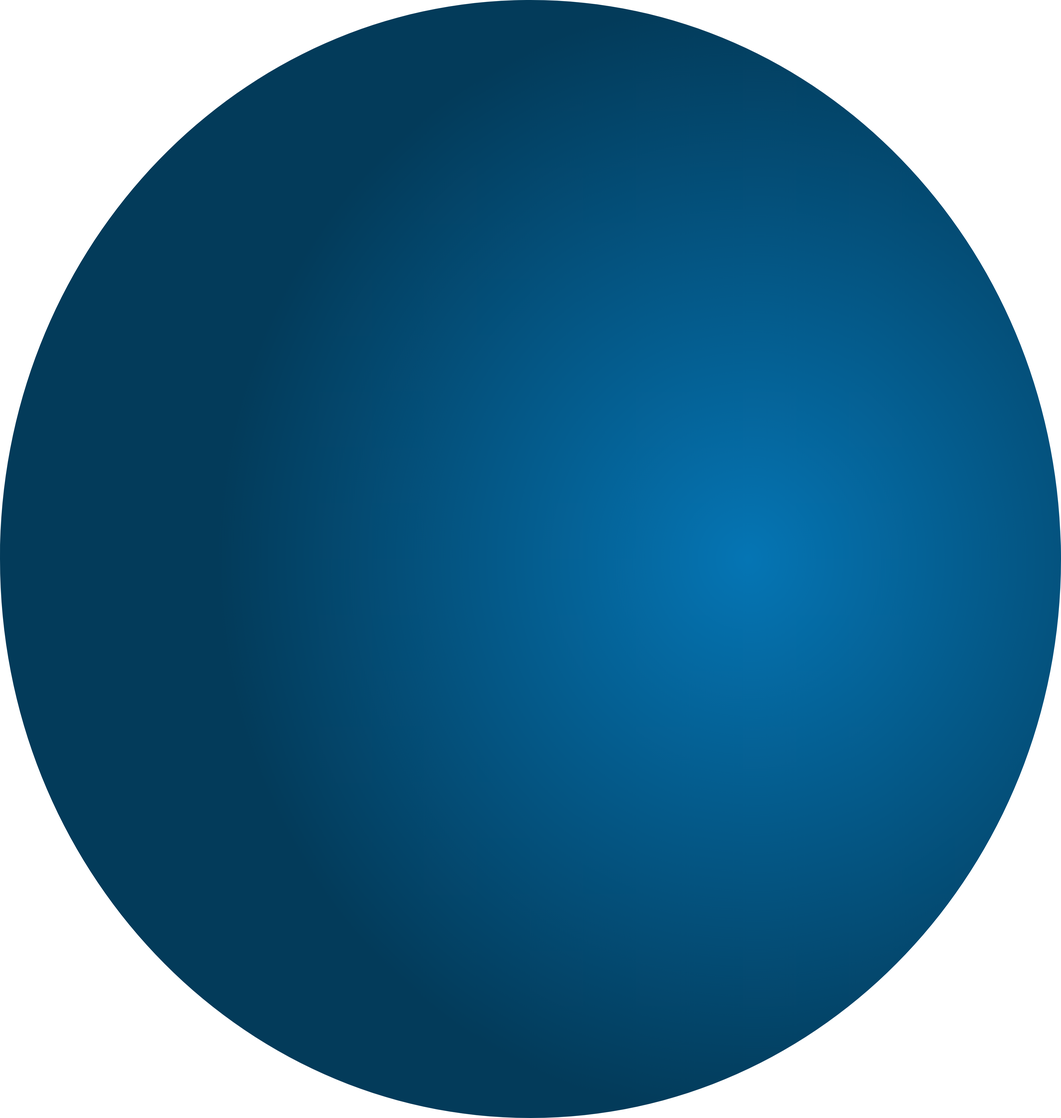
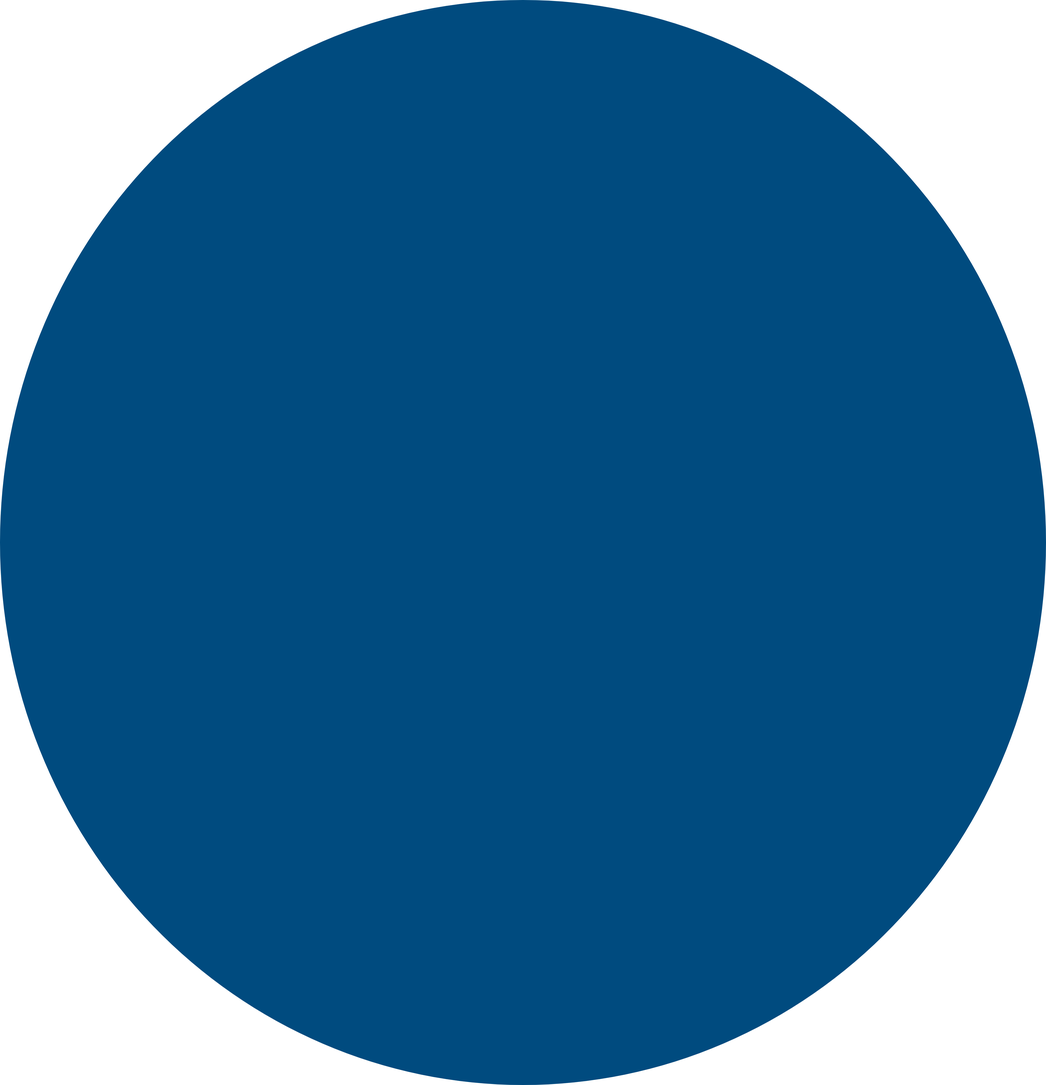
background color chnaged

diff --git a/index.html b/index.html
@@ -101,62 +101,96 @@
         <g id="Group-32" transform="translate(0.000000, 3.000000)">
           <path
             d="M126.007899,38.7650154 C126.007899,34.7383476 129.263975,31.4816286 133.298472,31.4816286 L386.871877,31.4816286 C390.898902,31.4816286 394.162451,34.7405 394.162451,38.7650154 L394.162451,212.307477 C394.162451,216.334145 390.906375,219.590864 386.871877,219.590864 L133.298472,219.590864 C129.271447,219.590864 126.007899,216.331993 126.007899,212.307477 L126.007899,38.7650154 Z"
-            id="Case" stroke="#0575B4" stroke-width="2.08142999" fill="#002147" class="zrpfIRpo_0"></path>
+            id="Case" stroke="#4d89c8
+
+" stroke-width="2.08142999" fill="#005C97" class="zrpfIRpo_0"></path>
           <path
             d="M142.409667,50.7365341 C142.409667,49.0123794 143.813338,47.612711 145.535934,47.612711 L374.37407,47.612711 C376.102828,47.612711 377.500337,49.004393 377.500337,50.7365341 L377.500337,180.042016 C377.500337,181.766171 376.096666,183.165839 374.37407,183.165839 L145.535934,183.165839 C143.807176,183.165839 142.409667,181.774157 142.409667,180.042016 L142.409667,50.7365341 Z"
-            id="Case" stroke="#0575B4" stroke-width="2.08142999" fill="#002147" class="zrpfIRpo_1"></path>
-          <path d="M240.989547,219.590864 L279.441148,219.590864 L282.037136,253.153923 L238.39356,253.153923 L240.989547,219.590864 Z" id="Case" stroke="#0575B4" stroke-width="2.08142999" fill="#002147"
-            class="zrpfIRpo_2">
+            id="Case" stroke="#4d89c8
+
+" stroke-width="2.08142999" fill="#005C97" class="zrpfIRpo_1"></path>
+          <path d="M240.989547,219.590864 L279.441148,219.590864 L282.037136,253.153923 L238.39356,253.153923 L240.989547,219.590864 Z" id="Case" stroke="#4d89c8
+
+" stroke-width="2.08142999" fill="#005C97" class="zrpfIRpo_2">
           </path>
           <path
             d="M222.334407,253.411496 L222.334407,256.926514 C222.334407,259.006825 224.024461,260.699106 226.104395,260.699106 L294.3263,260.699106 C296.402444,260.699106 298.096288,259.006629 298.096288,256.926514 L298.096288,253.411496 C298.096288,253.265769 297.983625,253.153923 297.834738,253.153923 L222.595957,253.153923 C222.450148,253.153923 222.334407,253.269384 222.334407,253.411496 Z"
-            id="Keyboard" stroke="#0575B4" stroke-width="2.08142999" fill="#002147" transform="translate(260.215348, 256.926514) scale(1, -1) translate(-260.215348, -256.926514) " class="zrpfIRpo_3"></path>
+            id="Keyboard" stroke="#4d89c8
+
+" stroke-width="2.08142999" fill="#005C97" transform="translate(260.215348, 256.926514) scale(1, -1) translate(-260.215348, -256.926514) " class="zrpfIRpo_3"></path>
           <path id="Oval-6" stroke="#861485" stroke-width="2.08142999" d="M255.39895587,202.809335A4.81639213,4.81330685 0,1,1 265.03174013,202.809335A4.81639213,4.81330685 0,1,1 255.39895587,202.809335"
             class="zrpfIRpo_4"></path>
-          <path id="Case" stroke="#0575B4" stroke-width="2.08142999" fill="#002147" width="51.5470788" height="100.949355"
+          <path id="Case" stroke="#4d89c8
+
+" stroke-width="2.08142999" fill="#005C97" width="51.5470788" height="100.949355"
             d="M 107.275074,159.749752 L 146.8221528,159.749752 A 6,6,0,0,1,152.8221528,165.749752 L 152.8221528,254.69910700000003 A 6,6,0,0,1,146.8221528,260.699107 L 107.275074,260.699107 A 6,6,0,0,1,101.275074,254.69910700000003 L 101.275074,165.749752 A 6,6,0,0,1,107.275074,159.749752"
             class="zrpfIRpo_5"></path>
-          <path d="M101.275074,170.937438 L152.822153,170.937438 L152.822153,245.686792 L101.275074,245.686792 L101.275074,170.937438 Z" id="Case" stroke="#0575B4" stroke-width="2.08142999" fill="#002147"
-            class="zrpfIRpo_6">
+          <path d="M101.275074,170.937438 L152.822153,170.937438 L152.822153,245.686792 L101.275074,245.686792 L101.275074,170.937438 Z" id="Case" stroke="#4d89c8
+
+" stroke-width="2.08142999" fill="#005C97" class="zrpfIRpo_6">
           </path>
-          <path id="Rectangle-11" fill="#0575B4" width="24.7328244" height="2.08142999"
+          <path id="Rectangle-11" fill="#4d89c8
+
+" width="24.7328244" height="2.08142999"
             d="M 115.812374,164.17279 L 138.5451984,164.17279 A 1,1,0,0,1,139.5451984,165.17279 L 139.5451984,165.25421999 A 1,1,0,0,1,138.5451984,166.25421999 L 115.812374,166.25421999 A 1,1,0,0,1,114.812374,165.25421999 L 114.812374,165.17279 A 1,1,0,0,1,115.812374,164.17279"
             class="zrpfIRpo_7"></path>
-          <path id="Rectangle-11" fill="#0575B4" width="5.93587786" height="5.93207547"
+          <path id="Rectangle-11" fill="#4d89c8
+
+" width="5.93587786" height="5.93207547"
             d="M 126.184813,250.031778 L 128.12069086,250.031778 A 2,2,0,0,1,130.12069086,252.031778 L 130.12069086,253.96385347 A 2,2,0,0,1,128.12069086,255.96385347 L 126.184813,255.96385347 A 2,2,0,0,1,124.184813,253.96385347 L 124.184813,252.031778 A 2,2,0,0,1,126.184813,250.031778"
             class="zrpfIRpo_8"></path>
-          <path id="Oval-6" stroke="#0575B4" stroke-width="2.08142999" fill="#002147" d="M111.9485742,208.142999A3.9051828,3.90268123 0,1,1 119.75893980000001,208.142999A3.9051828,3.90268123 0,1,1 111.9485742,208.142999"
-            class="zrpfIRpo_9"></path>
-          <path id="Rectangle-11" fill="#0575B4" width="18.2241864" height="2.08142999"
+          <path id="Oval-6" stroke="#4d89c8
+
+" stroke-width="2.08142999" fill="#005C97" d="M111.9485742,208.142999A3.9051828,3.90268123 0,1,1 119.75893980000001,208.142999A3.9051828,3.90268123 0,1,1 111.9485742,208.142999" class="zrpfIRpo_9"></path>
+          <path id="Rectangle-11" fill="#4d89c8
+
+" width="18.2241864" height="2.08142999"
             d="M 125.96585,201.378352 L 142.1900364,201.378352 A 1,1,0,0,1,143.1900364,202.378352 L 143.1900364,202.45978199 A 1,1,0,0,1,142.1900364,203.45978199 L 125.96585,203.45978199 A 1,1,0,0,1,124.96585,202.45978199 L 124.96585,202.378352 A 1,1,0,0,1,125.96585,201.378352"
             class="zrpfIRpo_10"></path>
-          <path id="Rectangle-11" fill="#0575B4" width="13.017276" height="2.08142999"
+          <path id="Rectangle-11" fill="#4d89c8
+
+" width="13.017276" height="2.08142999"
             d="M 125.96585,207.102284 L 136.983126,207.102284 A 1,1,0,0,1,137.983126,208.102284 L 137.983126,208.18371399 A 1,1,0,0,1,136.983126,209.18371399 L 125.96585,209.18371399 A 1,1,0,0,1,124.96585,208.18371399 L 124.96585,208.102284 A 1,1,0,0,1,125.96585,207.102284"
             class="zrpfIRpo_11"></path>
-          <path id="Rectangle-11" fill="#0575B4" width="7.81036561" height="2.08142999"
+          <path id="Rectangle-11" fill="#4d89c8
+
+" width="7.81036561" height="2.08142999"
             d="M 125.96585,212.826216 L 131.77621561,212.826216 A 1,1,0,0,1,132.77621561,213.826216 L 132.77621561,213.90764599 A 1,1,0,0,1,131.77621561,214.90764599 L 125.96585,214.90764599 A 1,1,0,0,1,124.96585,213.90764599 L 124.96585,213.826216 A 1,1,0,0,1,125.96585,212.826216"
             class="zrpfIRpo_12"></path>
-          <path id="Oval-7" stroke="#0575B4" stroke-width="2.08142999" fill="#002147" d="M34.8856326,168.725919A39.9637045,39.9374379 0,1,1 114.81304159999999,168.725919A39.9637045,39.9374379 0,1,1 34.8856326,168.725919"
-            class="zrpfIRpo_13"></path>
-          <path id="Case" stroke="#0575B4" stroke-width="2.08142999" fill="#002147" width="192.654351" height="129.308838"
+          <path id="Oval-7" stroke="#4d89c8
+
+" stroke-width="2.08142999" fill="#005C97" d="M34.8856326,168.725919A39.9637045,39.9374379 0,1,1 114.81304159999999,168.725919A39.9637045,39.9374379 0,1,1 34.8856326,168.725919" class="zrpfIRpo_13"></path>
+          <path id="Case" stroke="#4d89c8
+
+" stroke-width="2.08142999" fill="#005C97" width="192.654351" height="129.308838"
             d="M 325.704966,120.462761 L 506.35931700000003,120.462761 A 6,6,0,0,1,512.359317,126.462761 L 512.359317,243.771599 A 6,6,0,0,1,506.35931700000003,249.771599 L 325.704966,249.771599 A 6,6,0,0,1,319.704966,243.771599 L 319.704966,126.462761 A 6,6,0,0,1,325.704966,120.462761"
             class="zrpfIRpo_14"></path>
           <path
             d="M306.42601,250.02579 L306.42601,255.235353 C306.42601,258.248347 308.874337,260.699106 311.88835,260.699106 L520.175933,260.699106 C523.187441,260.699106 525.638273,258.249893 525.638273,255.235353 L525.638273,250.02579 C525.638273,249.884133 525.525092,249.771599 525.379413,249.771599 L306.68487,249.771599 C306.538643,249.771599 306.42601,249.8841 306.42601,250.02579 Z"
-            id="Keyboard" stroke="#0575B4" stroke-width="2.08142999" fill="#002147" class="zrpfIRpo_15"></path>
+            id="Keyboard" stroke="#4d89c8
+
+" stroke-width="2.08142999" fill="#005C97" class="zrpfIRpo_15"></path>
           <path
             d="M430.428848,249.888735 L401.270407,249.88823 C402.433781,252.961493 405.402425,255.091813 408.808279,255.091813 L422.891133,255.091813 C426.2974,255.091813 429.265465,252.961765 430.428848,249.888735 Z"
-            id="Notch" stroke="#0575B4" stroke-width="2.08142999" fill="#002147" class="zrpfIRpo_16"></path>
-          <path id="Screen" stroke="#0575B4" stroke-width="2.08142999" fill="#002147" width="175.319716" height="105.073079"
+            id="Notch" stroke="#4d89c8
+
+" stroke-width="2.08142999" fill="#005C97" class="zrpfIRpo_16"></path>
+          <path id="Screen" stroke="#4d89c8
+
+" stroke-width="2.08142999" fill="#005C97" width="175.319716" height="105.073079"
             d="M 330.295034,132.691162 L 501.61474999999996,132.691162 A 2,2,0,0,1,503.61474999999996,134.691162 L 503.61474999999996,235.764241 A 2,2,0,0,1,501.61474999999996,237.764241 L 330.295034,237.764241 A 2,2,0,0,1,328.295034,235.764241 L 328.295034,134.691162 A 2,2,0,0,1,330.295034,132.691162"
             class="zrpfIRpo_17"></path>
           <path id="Oval-3" fill="#293347" d="M253.0558454,49.9543198A1.3017276,1.30089374 0,1,1 255.6593006,49.9543198A1.3017276,1.30089374 0,1,1 253.0558454,49.9543198" class="zrpfIRpo_18"></path>
           <path
             d="M179.899422,11.9682224 L300.177718,11.9682224 L300.177718,127.227794 C300.177718,131.24909 296.908511,134.512413 292.886465,134.512413 L187.190674,134.512413 C183.165634,134.512413 179.899422,131.247907 179.899422,127.227794 L179.899422,11.9682224 Z"
-            id="Case" stroke="#0575B4" stroke-width="2.08142999" fill="#002147" class="zrpfIRpo_19"></path>
+            id="Case" stroke="#4d89c8
+
+" stroke-width="2.08142999" fill="#005C97" class="zrpfIRpo_19"></path>
           <path
             d="M179.899422,6.23775036 C179.899422,2.21962044 183.168858,-1.040715 187.190674,-1.040715 L292.886465,-1.040715 C296.913475,-1.040715 300.177718,2.21613142 300.177718,6.23775036 L300.177718,14.0496524 L179.899422,14.0496524 L179.899422,6.23775036 Z"
-            id="Case" stroke="#0575B4" stroke-width="2.08142999" fill="#002147" class="zrpfIRpo_20"></path>
+            id="Case" stroke="#4d89c8
+
+" stroke-width="2.08142999" fill="#005C97" class="zrpfIRpo_20"></path>
           <path id="Oval-5" fill="#f71010" d="M188.75050232,6.50446872A2.34310968,2.34160874 0,1,1 193.43672168,6.50446872A2.34310968,2.34160874 0,1,1 188.75050232,6.50446872" class="zrpfIRpo_21"></path>
           <path id="Oval-5" fill="#dee3e2" d="M196.56086832,6.50446872A2.34310968,2.34160874 0,1,1 201.24708768,6.50446872A2.34310968,2.34160874 0,1,1 196.56086832,6.50446872" class="zrpfIRpo_22"></path>
           <path id="Oval-5" fill="#33f710" d="M204.37123332000002,6.50446872A2.34310968,2.34160874 0,1,1 209.05745268,6.50446872A2.34310968,2.34160874 0,1,1 204.37123332000002,6.50446872" class="zrpfIRpo_23"></path>
@@ -243,28 +277,32 @@
             class="zrpfIRpo_50"></path>
           <path
             d="M414.991426,93.6643496 L557.659437,93.6643496 L557.659437,195.142937 C557.659437,199.162932 554.399545,202.419067 550.373649,202.419067 L422.277215,202.419067 C418.255898,202.419067 414.991426,199.157214 414.991426,195.142937 L414.991426,93.6643496 Z"
-            id="Case" stroke="#0575B4" stroke-width="2.08142999" fill="#002147" class="zrpfIRpo_51"></path>
+            id="Case" stroke="#4d89c8
+
+" stroke-width="2.08142999" fill="#005C97" class="zrpfIRpo_51"></path>
           <path
             d="M414.991426,87.9338775 C414.991426,83.9126798 418.251232,80.6554121 422.277215,80.6554121 L550.373649,80.6554121 C554.397843,80.6554121 557.659437,83.9124627 557.659437,87.9338775 L557.659437,95.7457795 L414.991426,95.7457795 L414.991426,87.9338775 Z"
-            id="Case" stroke="#0575B4" stroke-width="2.08142999" fill="#002147" class="zrpfIRpo_52"></path>
+            id="Case" stroke="#4d89c8
+
+" stroke-width="2.08142999" fill="#005C97" class="zrpfIRpo_52"></path>
           <path id="Oval-5" fill="#f71010" d="M423.84250732,88.2005958A2.34310968,2.34160874 0,1,1 428.52872668,88.2005958A2.34310968,2.34160874 0,1,1 423.84250732,88.2005958" class="zrpfIRpo_53"></path>
           <path id="Oval-5" fill="#dee3e2" d="M431.65287232000003,88.2005958A2.34310968,2.34160874 0,1,1 436.33909168,88.2005958A2.34310968,2.34160874 0,1,1 431.65287232000003,88.2005958" class="zrpfIRpo_54"></path>
           <path id="Oval-5" fill="#33f710" d="M439.46323832,88.2005958A2.34310968,2.34160874 0,1,1 444.14945768,88.2005958A2.34310968,2.34160874 0,1,1 439.46323832,88.2005958" class="zrpfIRpo_55"></path>
-          <path id="Oval-6" stroke="#d1cebd" stroke-width="2.34160874" fill="#002147"
+          <path id="Oval-6" stroke="#d1cebd" stroke-width="2.34160874" fill="#005C97"
             d="M477.21333899999996,148.041708A26.034552,26.0178749 0,1,1 529.282443,148.041708A26.034552,26.0178749 0,1,1 477.21333899999996,148.041708" class="zrpfIRpo_56"></path>
-          <path d="M500.383423,118.901688 L500.383423,125.145978 L506.63305,125.145978 L506.63305,118.901688 L500.383423,118.901688 Z" id="Rectangle-12" stroke="#ffb0cd" stroke-width="2.08142999" fill="#002147"
+          <path d="M500.383423,118.901688 L500.383423,125.145978 L506.63305,125.145978 L506.63305,118.901688 L500.383423,118.901688 Z" id="Rectangle-12" stroke="#ffb0cd" stroke-width="2.08142999" fill="#005C97"
             class="zrpfIRpo_57"></path>
-          <path d="M500.123077,170.937438 L500.123077,177.181728 L506.372704,177.181728 L506.372704,170.937438 L500.123077,170.937438 Z" id="Rectangle-12" stroke="#ffb0cd" stroke-width="2.08142999" fill="#002147"
+          <path d="M500.123077,170.937438 L500.123077,177.181728 L506.372704,177.181728 L506.372704,170.937438 L500.123077,170.937438 Z" id="Rectangle-12" stroke="#ffb0cd" stroke-width="2.08142999" fill="#005C97"
             class="zrpfIRpo_58"></path>
-          <path d="M474.088525,145.179742 L474.088525,151.424032 L480.338152,151.424032 L480.338152,145.179742 L474.088525,145.179742 Z" id="Rectangle-12" stroke="#084177" stroke-width="2.08142999" fill="#002147"
+          <path d="M474.088525,145.179742 L474.088525,151.424032 L480.338152,151.424032 L480.338152,145.179742 L474.088525,145.179742 Z" id="Rectangle-12" stroke="#084177" stroke-width="2.08142999" fill="#005C97"
             class="zrpfIRpo_59"></path>
-          <path d="M525.897284,145.179742 L525.897284,151.424032 L532.146911,151.424032 L532.146911,145.179742 L525.897284,145.179742 Z" id="Rectangle-12" stroke="#084177" stroke-width="2.08142999" fill="#002147"
+          <path d="M525.897284,145.179742 L525.897284,151.424032 L532.146911,151.424032 L532.146911,145.179742 L525.897284,145.179742 Z" id="Rectangle-12" stroke="#084177" stroke-width="2.08142999" fill="#005C97"
             class="zrpfIRpo_60"></path>
           <path id="Line" stroke="#084177" stroke-width="2.08142999" stroke-linecap="square" d="M529.282443,124.625621L529.282443,144.139027" class="zrpfIRpo_61"></path>
           <path id="Line" stroke="#084177" stroke-width="2.08142999" stroke-linecap="square" d="M529.282443,151.944389L529.282443,171.457795" class="zrpfIRpo_62"></path>
           <path id="Oval-5" fill="#ff1e56" d="M526.15829676,123.845084A3.12414624,3.12214499 0,1,1 532.4065892399999,123.845084A3.12414624,3.12214499 0,1,1 526.15829676,123.845084" class="zrpfIRpo_63"></path>
           <path id="Oval-5" fill="#ff1e56" d="M526.15829676,173.279047A3.12414624,3.12214499 0,1,1 532.4065892399999,173.279047A3.12414624,3.12214499 0,1,1 526.15829676,173.279047" class="zrpfIRpo_64"></path>
-          <g id="Group-60" transform="translate(439.463238, 115.519364)" fill="#002147" stroke-width="2.08142999">
+          <g id="Group-60" transform="translate(439.463238, 115.519364)" fill="#005C97" stroke-width="2.08142999">
             <path id="Rectangle-15" width="16.1427564" stroke="#dee3e2" height="16.1310824"
               d="M 4.0407150000000005,1.040715 L 14.183471399999998,1.040715 A 3,3,0,0,1,17.1834714,4.0407150000000005 L 17.1834714,14.171797399999999 A 3,3,0,0,1,14.183471399999998,17.1717974 L 4.0407150000000005,17.1717974 A 3,3,0,0,1,1.040715,14.171797399999999 L 1.040715,4.0407150000000005 A 3,3,0,0,1,4.0407150000000005,1.040715"
               class="zrpfIRpo_65"></path>
@@ -275,22 +313,22 @@
               d="M 4.0407150000000005,47.8728898 L 14.183471399999998,47.8728898 A 3,3,0,0,1,17.1834714,50.8728898 L 17.1834714,61.00397220000001 A 3,3,0,0,1,14.183471399999998,64.0039722 L 4.0407150000000005,64.0039722 A 3,3,0,0,1,1.040715,61.00397220000001 L 1.040715,50.8728898 A 3,3,0,0,1,4.0407150000000005,47.8728898"
               class="zrpfIRpo_67"></path>
           </g>
-          <path id="Oval-8" stroke="#ff7272" stroke-width="2.08142999" fill="#002147" d="M616.7585378,235.982125A15.6207312,15.6107249 0,1,1 648.0000002,235.982125A15.6207312,15.6107249 0,1,1 616.7585378,235.982125"
+          <path id="Oval-8" stroke="#ff7272" stroke-width="2.08142999" fill="#005C97" d="M616.7585378,235.982125A15.6207312,15.6107249 0,1,1 648.0000002,235.982125A15.6207312,15.6107249 0,1,1 616.7585378,235.982125"
             class="zrpfIRpo_68"></path>
-          <path id="Oval-8" stroke="#ff7272" stroke-width="2.08142999" fill="#002147" d="M623.26717579,235.982125A9.11209321,9.10625621 0,1,1 641.49136221,235.982125A9.11209321,9.10625621 0,1,1 623.26717579,235.982125"
+          <path id="Oval-8" stroke="#ff7272" stroke-width="2.08142999" fill="#005C97" d="M623.26717579,235.982125A9.11209321,9.10625621 0,1,1 641.49136221,235.982125A9.11209321,9.10625621 0,1,1 623.26717579,235.982125"
             class="zrpfIRpo_69"></path>
-          <path id="Oval-8" stroke="#d1cebd" stroke-width="2.08142999" fill="#002147"
+          <path id="Oval-8" stroke="#d1cebd" stroke-width="2.08142999" fill="#005C97"
             d="M606.3447165900001,212.305859A5.20691041,5.20357498 0,1,1 616.75853741,212.305859A5.20691041,5.20357498 0,1,1 606.3447165900001,212.305859" class="zrpfIRpo_70"></path>
           <path
             d="M588.639887,211.004965 C588.065116,211.004965 587.599172,211.470909 587.599172,212.04568 L587.599172,255.75571 C587.599172,258.629565 589.928892,260.959285 592.802747,260.959285 L628.720118,260.959285 C631.593973,260.959285 633.923693,258.629565 633.923693,255.75571 L633.923693,212.04568 C633.923693,211.470909 633.457749,211.004965 632.882978,211.004965 L588.639887,211.004965 Z"
-            id="Rectangle-16" stroke="#ff7272" stroke-width="2.08142999" fill="#002147" class="zrpfIRpo_71"></path>
-          <path id="Rectangle-16" stroke="#d1cebd" stroke-width="2.08142999" fill="#002147" width="13.5393012" height="16.6514399"
+            id="Rectangle-16" stroke="#ff7272" stroke-width="2.08142999" fill="#005C97" class="zrpfIRpo_71"></path>
+          <path id="Rectangle-16" stroke="#d1cebd" stroke-width="2.08142999" fill="#005C97" width="13.5393012" height="16.6514399"
             d="M 612.728541,225.054618 L 620.2678421999999,225.054618 A 3,3,0,0,1,623.2678421999999,228.054618 L 623.2678421999999,238.70605790000002 A 3,3,0,0,1,620.2678421999999,241.70605790000002 L 612.728541,241.70605790000002 A 3,3,0,0,1,609.728541,238.70605790000002 L 609.728541,228.054618 A 3,3,0,0,1,612.728541,225.054618"
             class="zrpfIRpo_72"></path>
           <path id="Line-2" stroke="#d1cebd" stroke-width="2.08142999" stroke-linecap="square" d="M616.368019,211.395233L616.368019,223.233366" class="zrpfIRpo_73"></path>
           <path
             d="M16.391389,229.997886 C7.91344584,229.997886 1.040715,236.870617 1.040715,245.34856 C1.040715,253.826503 7.91344584,260.699234 16.391389,260.699234 L79.4070531,260.699234 C80.2692097,260.699234 80.9681256,260.000318 80.9681256,259.138161 L80.9681256,256.722169 C80.9681256,255.629844 80.123732,254.723351 79.0341503,254.645969 C71.8803755,254.137863 68.0805122,250.995245 68.0805122,245.34856 C68.0805122,239.701873 71.8803788,236.559254 79.0341596,236.05115 C80.1237345,235.973762 80.9681256,235.06727 80.9681256,233.974951 L80.9681256,231.558958 C80.9681256,230.696802 80.2692097,229.997886 79.4070531,229.997886 L16.391389,229.997886 Z"
-            id="Rectangle-17" stroke="#f8dc88" stroke-width="2.08142999" fill="#002147" class="zrpfIRpo_76"></path>
+            id="Rectangle-17" stroke="#f8dc88" stroke-width="2.08142999" fill="#005C97" class="zrpfIRpo_76"></path>
           <path
             d="M80.1864202,255.299762 C80.1864202,255.551575 79.9821545,255.75571 79.73018,255.75571 L79.73018,255.75571 L72.353427,255.75571 L16.1414223,255.75571 C10.3900278,255.75571 5.72760145,251.09627 5.72760145,245.34856 C5.72760145,239.60085 10.3900278,234.94141 16.1414223,234.94141 L72.353427,234.94141 L79.73018,234.94141 L79.73018,234.94141 C79.9821545,234.94141 80.1864202,235.145545 80.1864202,235.397358"
             id="Rectangle-19" stroke="#f8dc88" stroke-width="2.08142999" class="zrpfIRpo_77"></path>

diff --git a/css/style.css b/css/style.css
@@ -4,14 +4,14 @@
 * {
   font-family: 'Genos';
   height: auto;
-  background: #002147;
+  background: #005c97;
   color: #ccd3da;
   scroll-behavior: smooth;
   box-sizing: border-box;
 }
 
 body {
-  background: #002147 !important;
+  background: #005c97 !important;
   overflow-x: hidden;
 }
 
@@ -128,7 +128,7 @@ h4 {
 }
 
 #chat-bot-message-container .chat-bot-message-label {
-  background: #002147 !important;
+  background: #005c97 !important;
   padding: 10px !important;
 }
 
@@ -150,7 +150,7 @@ h4 {
 nav {
   height: auto;
   width: 100%;
-  background: #002147;
+  background: #005c97;
   display: -webkit-box;
   display: -ms-flexbox;
   display: flex !important;
@@ -233,7 +233,7 @@ p::first-letter,
 .sitemap .nav-item a,
 a.nav-link,
 footer span {
-  background-image: linear-gradient(90deg, #d32cca, blue);
+  background-image: linear-gradient(90deg, #964b92, #964b92);
   background-size: 0% 1px;
   background-repeat: no-repeat;
   background-position: left bottom;
@@ -672,7 +672,7 @@ pre code {
 #item1.card,
 #item2.card {
   padding-left: 0.5rem;
-  background: #002147;
+  background: #005c97;
   text-align: start;
   box-shadow: 0.5px 0.5px orange;
   line-height: 2rem;
@@ -696,7 +696,7 @@ footer h3 {
 .footer-section {
   width: 100%;
   height: auto;
-  background: #002147;
+  background: #005c97;
   overflow-x: hidden;
 }
 
@@ -747,7 +747,7 @@ input#email {
 }
 
 form input.form-control {
-  color: #002147 !important;
+  color: #005c97 !important;
   border-radius: 10px;
 }
 

diff --git a/css/project.css b/css/project.css
@@ -1,11 +1,11 @@
 * {
   -webkit-box-sizing: border-box;
           box-sizing: border-box;
-  background-color: #002147;
+  background-color: #005c97;
 }
 
 body {
-  background: #002147;
+  background: #005c97;
   overflow-x: hidden;
 }
 
@@ -43,8 +43,8 @@ iframe {
 
 .grid-project .card-title h2,
 .grid-project .card-title p {
-  background-image: -webkit-gradient(linear, left top, right top, from(#d32cca), to(blue));
-  background-image: linear-gradient(90deg, #d32cca, blue);
+  background-image: -webkit-gradient(linear, left top, right top, from(#964b92), to(#964b92));
+  background-image: linear-gradient(90deg, #964b92, #964b92);
   background-size: 0% 2px;
   background-repeat: no-repeat;
   background-position: left bottom;
@@ -133,8 +133,8 @@ iframe {
   line-height: 2;
   font-weight: 700;
   text-align: right;
-  background-image: -webkit-gradient(linear, left top, right top, from(#d32cca), to(blue));
-  background-image: linear-gradient(90deg, #d32cca, blue);
+  background-image: -webkit-gradient(linear, left top, right top, from(#964b92), to(#964b92));
+  background-image: linear-gradient(90deg, #964b92, #964b92);
   background-size: 0% 2px;
   background-repeat: no-repeat;
   background-position: right bottom;

diff --git a/project.html b/project.html
@@ -240,7 +240,7 @@
                 <img class="fixed-circle" id="phone-frame" src="./img/phone_frame.png" alt="Phone" data-aos="zoom-in-left">
 
                 <div class="card-img">
-                    <img src="./img/ai1.jpg" alt="Blog">
+                    <img src="./img/ai1.png" alt="Blog">
                 </div>
                 <div class="card-title">
                     <h2>Research AI</h2>
@@ -277,7 +277,7 @@
     <section id="project-section">
         <div class="project-grid">
             <div class="project-image-grid">
-                <img src="./img/frame.jpg" alt="Frame" data-aos="zoom-in-right">
+                <img src="./img/frame.png" alt="Frame" data-aos="zoom-in-right">
             </div>
             <div class="project-list" data-aos="zoom-in-left">
                 <a href="https://samstore005.netlify.app">E-commerce Template</a>

diff --git a/css/project.scss b/css/project.scss
@@ -1,10 +1,10 @@
 * {
   box-sizing: border-box;
-  background-color: #002147;
+  background-color: #005c97;
 }
 
 body {
-  background: #002147;
+  background: #005c97;
   overflow-x: hidden;
 }
 
@@ -34,7 +34,7 @@ iframe {
   }
   .card-title h2,
   .card-title p {
-    background-image: linear-gradient(90deg, #d32cca, blue);
+    background-image: linear-gradient(90deg, #964b92, #964b92);
     background-size: 0% 2px;
     background-repeat: no-repeat;
     background-position: left bottom;
@@ -100,7 +100,7 @@ iframe {
         line-height: 2;
         font-weight: 700;
         text-align: right;
-        background-image: linear-gradient(90deg, #d32cca, blue);
+        background-image: linear-gradient(90deg, #964b92, #964b92);
         background-size: 0% 2px;
         background-repeat: no-repeat;
         background-position: right bottom;

diff --git a/css/blog.css b/css/blog.css
@@ -51,7 +51,7 @@ span {
 }
 
 .blog-item h3 {
-  background-image: linear-gradient(90deg, #d32cca, blue);
+  background-image: linear-gradient(90deg, #964b92, #964b92);
   background-size: 0% 2px;
   background-repeat: no-repeat;
   background-position: left bottom;
@@ -101,7 +101,7 @@ a.button:hover {
 
 #blog-section {
   padding: 1rem 1rem;
-  background: #002147;
+  background: #005c97;
 }
 
 .col-xs-12,

diff --git a/css/mobile.css b/css/mobile.css
@@ -191,7 +191,7 @@
     left: -100%;
     -webkit-transition: 0.5s;
     transition: 0.5s;
-    background: #002147;
+    background: #005C97;
     margin: 0 auto;
     z-index: 1;
   }

diff --git a/css/contact.css b/css/contact.css
@@ -1,5 +1,5 @@
 body {
-  background: #002147;
+  background: #005C97;
   height: 100vh;
   overflow-x: hidden;
   color: #ccd3da;
